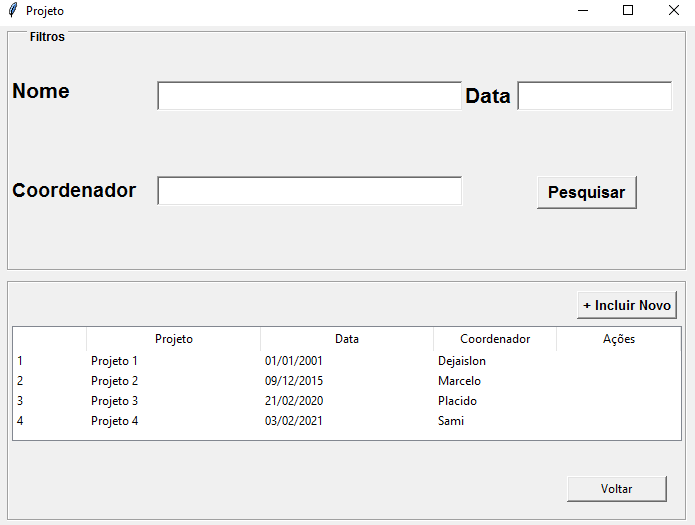
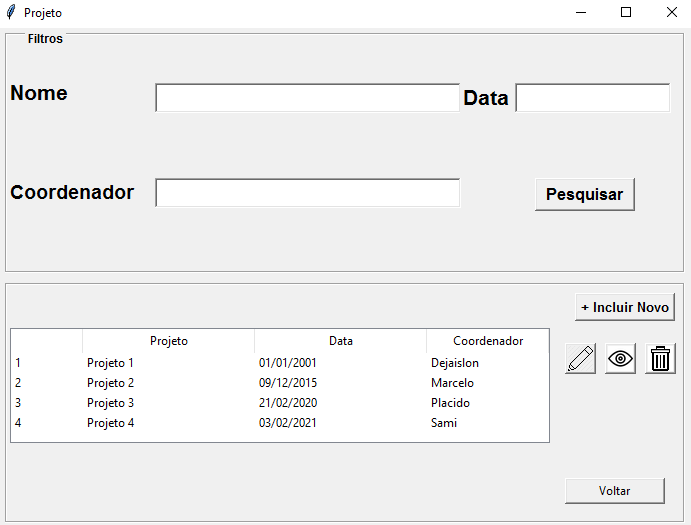
imagens das novas telas

diff --git a/prototipo/fonte/Projeto.py b/prototipo/fonte/Projeto.py
@@ -7,9 +7,9 @@ import os
 def buscarCaminho(nome):
     dirlist = os.getcwd()
     if '\\' in dirlist:
-        dirlist = dirlist + '\\Prototipos_Projeto\\' + nome
+        dirlist = dirlist + '\\prototipo\\fonte\\' + nome
     else:
-        dirlist = dirlist + '/Prototipos_Projeto/' + nome
+        dirlist = dirlist + '/prototipo/fonte/' + nome
     return dirlist
 
 class Projeto():
@@ -71,7 +71,7 @@ class Projeto():
         self.img_lapis = Image.open(self.caminho_lapis)
         self.resu = self.red(self.img_lapis)
         self.imagem_lapis = ImageTk.PhotoImage(self.resu)
-        self.imagem_lapis_L = t.Button(image=self.imagem_lapis).place(x=570, y=315)
+        self.imagem_lapis_L = t.Button(image=self.imagem_lapis, command=lambda: sel()).place(x=570, y=315)
 
         self.caminho_olhos = buscarCaminho('olho.jpg')
         self.img_olhos = Image.open(self.caminho_olhos)
@@ -86,6 +86,7 @@ class Projeto():
         self.imagem_lixeira_L = t.Button(image=self.imagem_lixeira).place(x=650, y=315)
 
         self.root.mainloop()
+
 
     def red(self, imge):
         self.basewidth = 25

diff --git a/prototipo/fonte/Amostras.py b/prototipo/fonte/Amostras.py
@@ -7,9 +7,9 @@ import os
 def buscarCaminho(nome):
     dirlist = os.getcwd()
     if '\\' in dirlist:
-        dirlist = dirlist + '\\Prototipos_Projeto\\' + nome
+        dirlist = dirlist + '\\prototipo\\fonte\\' + nome
     else:
-        dirlist = dirlist + '/Prototipos_Projeto/' + nome
+        dirlist = dirlist + '/prototipo/fonte/' + nome
     print(type(dirlist))
 
     print(dirlist)

diff --git a/prototipo/fonte/main.py b/prototipo/fonte/main.py
@@ -7,7 +7,7 @@ import os
 def buscarCaminho(nome):
     dirlist = os.getcwd()
     if '\\' in dirlist:
-        dirlist = dirlist + '\\Prototipos_Projeto\\' + nome
+        dirlist = dirlist + '\\prototipo\\fonte\\' + nome
     else:
         dirlist = dirlist + '/Prototipos_Projeto/' + nome
     print(type(dirlist))
